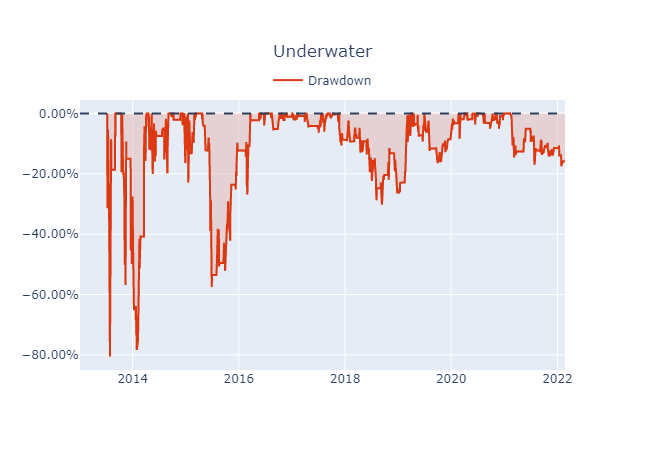
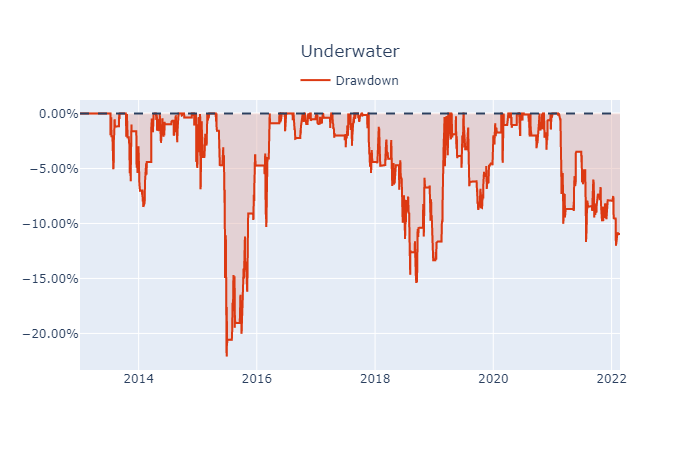
upderwater算法错了

diff --git a/C-择时类/特征分布建模择时/scr/plotting.py b/C-择时类/特征分布建模择时/scr/plotting.py
@@ -2,7 +2,7 @@
 Author: hugo2046 shen.lan123@gmail.com
 Date: 2022-06-07 10:09:17
 LastEditors: hugo2046 shen.lan123@gmail.com
-LastEditTime: 2022-06-30 10:40:50
+LastEditTime: 2022-07-01 08:59:33
 Description: 画图相关函数
 '''
 from typing import Dict, List, Tuple, Union
@@ -560,7 +560,7 @@ def plot_underwater(returns: pd.Series) -> Figure:
     _type_
         _description_
     """
-    cum_ser: pd.Series = ep.cum_returns(returns)
+    cum_ser: pd.Series = ep.cum_returns(returns,1)
     maxdrawdown: pd.Series = cum_ser / cum_ser.cummax() - 1
 
     idx: pd.DatetimeIndex = maxdrawdown.index
